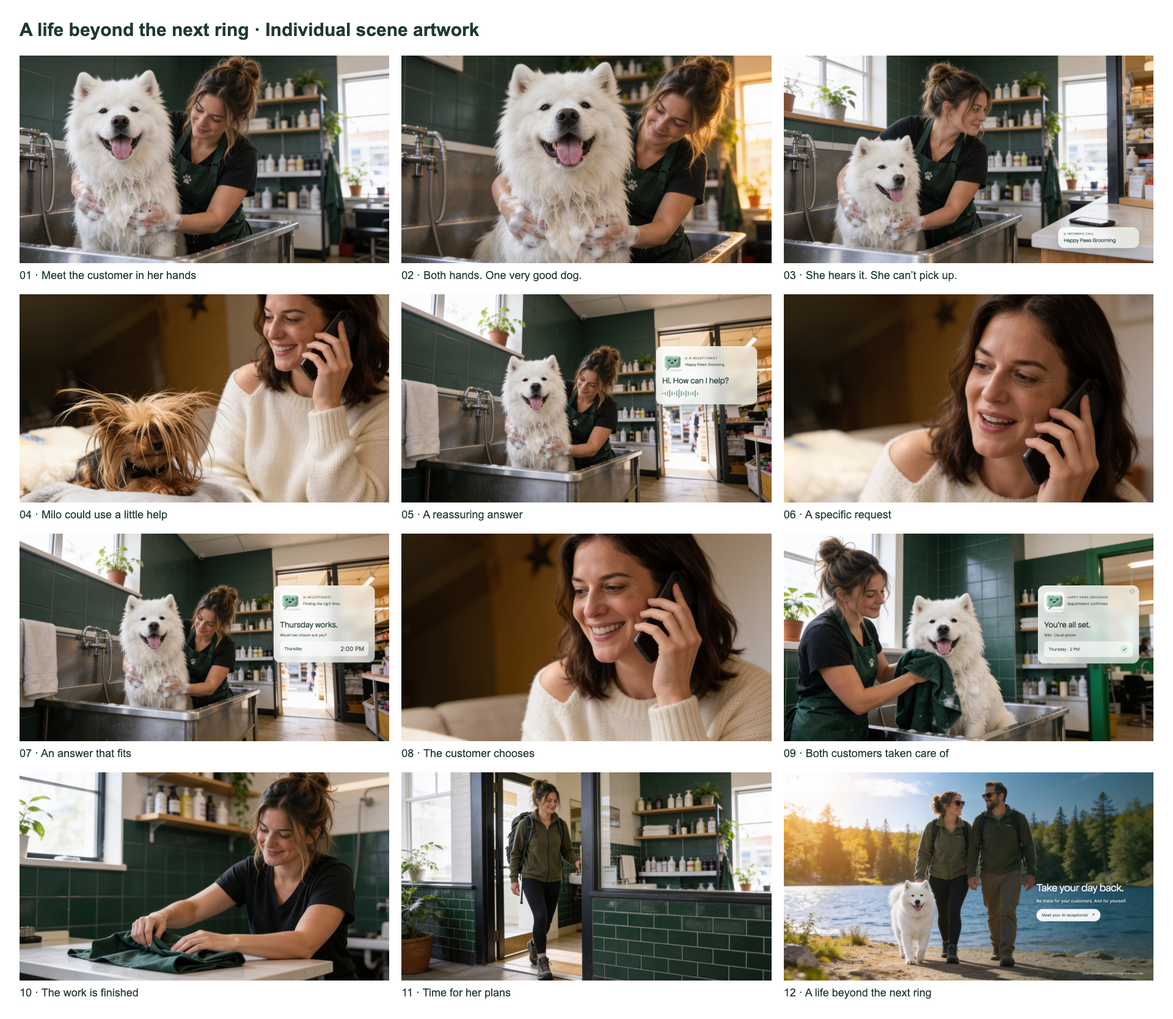
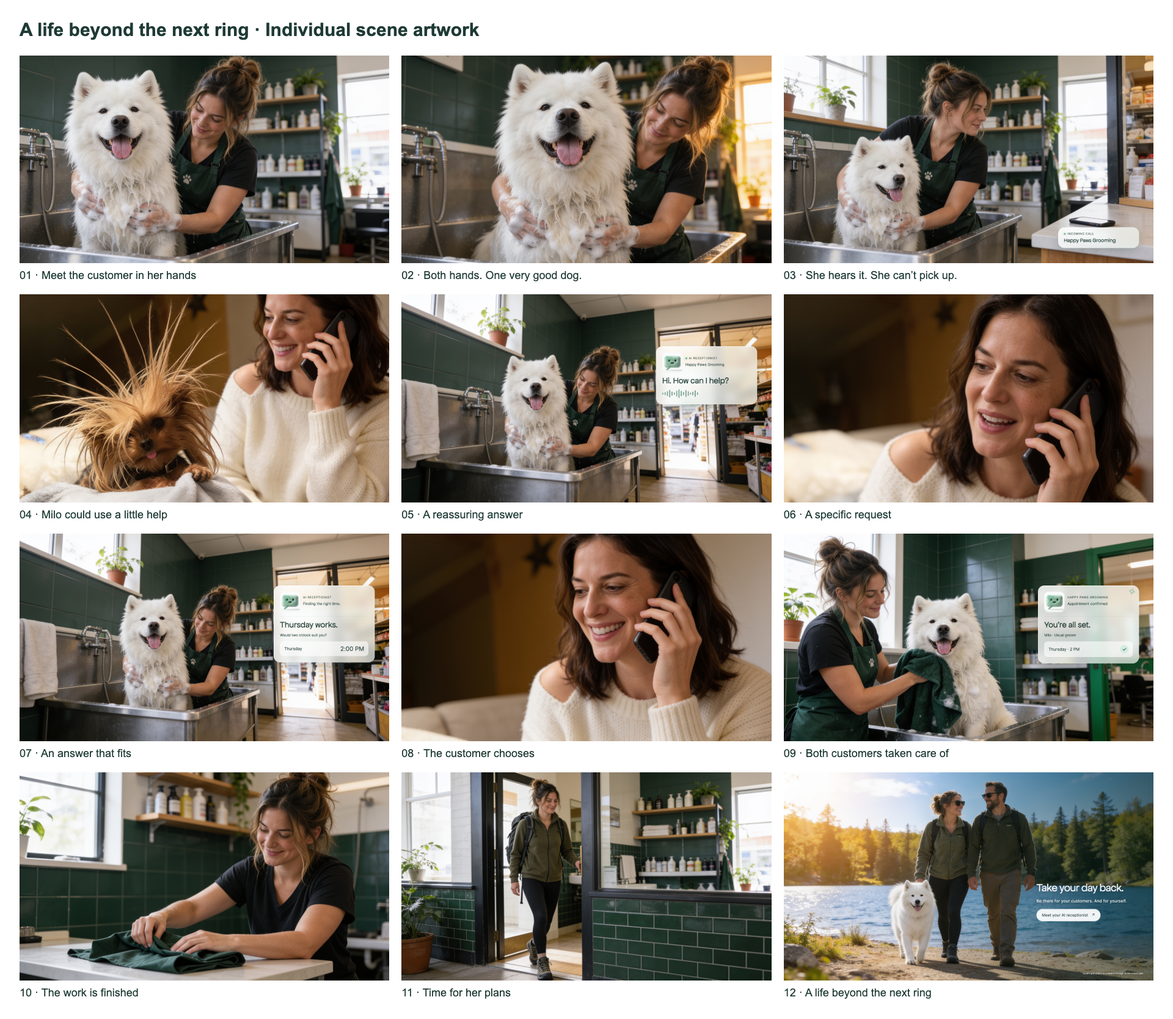
Give Milo wilder hair and a mischievous expression

Changed region(s): [[0.0312, 0.3116, 0.1875, 0.4985]]

diff --git a/docs/design/busy-life/approved-cast-scenes/index.html b/docs/design/busy-life/approved-cast-scenes/index.html
@@ -1,1 +1,1 @@
-<!doctype html><html lang="en"><meta charset="utf-8"><meta name="viewport" content="width=device-width,initial-scale=1"><title>A life beyond the next ring — scenes</title><style>*{box-sizing:border-box}body{margin:0;background:#fff;color:#1e3a34;font:16px system-ui}header{padding:25px 4vw;display:flex;justify-content:space-between;align-items:center;border-bottom:1px solid #dce6e0}h1{font-size:22px;margin:0}header small{display:block;color:#637e73;margin-top:5px}main{max-width:1500px;margin:auto;padding:26px 4vw}#hero{width:100%;aspect-ratio:16/9;object-fit:contain;background:#132b22}nav{display:flex;gap:10px;align-items:center;margin:20px 0}button,a{font:inherit;color:inherit}button{padding:10px 18px;border:1px solid #cddbd3;border-radius:30px;background:white;cursor:pointer}button:hover,button[aria-current=true]{background:#1e3a34;color:white}#count{margin:auto}#thumbs{display:grid;grid-template-columns:repeat(6,1fr);gap:12px;margin:25px 0}#thumbs button{padding:0;overflow:hidden;border-radius:10px;text-align:left}#thumbs img{width:100%;display:block}#thumbs span{display:block;padding:8px;font-size:12px}#notes{display:grid;grid-template-columns:1fr 1fr;gap:35px;line-height:1.6;border-top:1px solid #dce6e0;padding-top:20px}h2{font-size:25px;margin:0 0 8px}h3{font-size:12px;letter-spacing:1px;text-transform:uppercase}#audio{white-space:pre-line}a{font-size:13px}@media(max-width:700px){#thumbs{grid-template-columns:repeat(3,1fr)}#notes{grid-template-columns:1fr}header{align-items:start;gap:12px}}:focus-visible{outline:3px solid #5c9d83;outline-offset:3px}</style><header><div><h1>A life beyond the next ring.</h1><small>Approved character reference · corrected dogs · 12 scenes</small></div><a href="script.md">Full script ↗</a></header><main><img id="hero" alt=""><nav><button id="prev" aria-label="Previous scene">← Previous</button><span id="count" aria-live="polite"></span><button id="next" aria-label="Next scene">Next →</button><a id="download" download>Save image ↓</a></nav><div id="notes"><div><h2 id="title"></h2><p id="action"></p></div><div><h3>Dialogue / audio</h3><p id="audio"></p></div></div><div id="thumbs"></div></main><script>const scenes=[{"number": 1, "title": "Meet the customer in her hands", "time": "00\u201304", "image": "scene-01.png", "action": "Open on the beautiful Samoyed\u2019s whole face: upright ears, a goofy natural grin. The groomer is already washing him with both hands.", "audio": "Water and gentle room tone. The phone begins to ring.", "graphics": "Tiny AI Receptionist brand mark. No large overlay."}, {"number": 2, "title": "Both hands. One very good dog.", "time": "04\u201309", "image": "scene-02.png", "action": "The Samoyed tilts his head as her soapy hands work through his coat. Stay in the present. She has not stopped grooming.", "audio": "NARRATOR: \u201cIt always rings when your hands are full.\u201d", "graphics": "Natural little dog movement, no cartoon sound effects."}, {"number": 3, "title": "She hears it. She can\u2019t pick up.", "time": "09\u201314", "image": "scene-03.png", "action": "She glances at the ringing phone on the dry counter. Both hands stay wet and occupied with the dog; she returns her attention to him.", "audio": "NARRATOR: \u201cAnd there\u2019s someone on the other end who needs you, too.\u201d", "graphics": "Small incoming-call glass pill. No attempted reach for the phone."}, {"number": 4, "title": "Milo could use a little help", "time": "14\u201319", "image": "scene-04.png", "action": "Milo sits beside his customer, with the wild-haired reference guiding his appearance. She calls the groomer.", "audio": "CUSTOMER, affectionately to Milo: \u201cWe\u2019re getting you a haircut.\u201d\nA short ringback.", "graphics": "Let the real-looking dog supply the humor; no gag text."}, {"number": 5, "title": "A reassuring answer", "time": "19\u201325", "image": "scene-05.png", "action": "The open-eyed mascot answers beside the studio scene. The groomer stays quiet and keeps washing; the AI is speaking to the caller.", "audio": "AI: \u201cHi, Happy Paws Grooming. How can I help?\u201d", "graphics": "\u201cAI Receptionist\u201d remains visible on the small glass overlay. Happy Paws Grooming is a fictional demo name."}, {"number": 6, "title": "A specific request", "time": "25\u201332", "image": "scene-06.png", "action": "Cut to the same caller, speaking naturally. Milo stays off-screen rather than changing appearance.", "audio": "CUSTOMER: \u201cCould I book Milo for his usual groom on Thursday? After lunch would be ideal.\u201d", "graphics": "One short caption at a time. Returning-customer example; details established off-screen."}, {"number": 7, "title": "An answer that fits", "time": "32\u201339", "image": "scene-07.png", "action": "The AI presents a suitable available afternoon slot. Keep the owner visible in the background; this happens alongside her work.", "audio": "AI: \u201cThere\u2019s a two o\u2019clock appointment available on Thursday. Would you like that one?\u201d", "graphics": "Highlight \u201cThursday \u00b7 2 PM\u201d; do not make the caller navigate the interface."}, {"number": 8, "title": "The customer chooses", "time": "39\u201344", "image": "scene-08.png", "action": "The same caller smiles as she accepts the offered appointment.", "audio": "CUSTOMER: \u201cTwo is perfect. Thank you.\u201d", "graphics": "The selected time settles gently into place. No narrator over dialogue."}, {"number": 9, "title": "Both customers taken care of", "time": "44\u201351", "image": "scene-09.png", "action": "The owner dries the dog. Beside her, the new appointment resolves into a confirmation. The two threads meet.", "audio": "AI: \u201cYou\u2019re all set. Milo is booked for Thursday at two. See you then.\u201d", "graphics": "Booking card, drawn check, three brief celebration strokes. Quiet confirmation tone."}, {"number": 10, "title": "The work is finished", "time": "51\u201357", "image": "scene-10.png", "action": "The appointment has finished. She puts away her apron, ready to leave. This is the first time her hands are free.", "audio": "NARRATOR: \u201cThe appointment\u2019s booked. One less call to return before you head out.\u201d", "graphics": "A quiet, settled booking confirmation. No new person, business or location."}, {"number": 11, "title": "Time for her plans", "time": "57\u201364", "image": "scene-11.png", "action": "Work finished, the groomer heads outside with her hiking bag.", "audio": "NARRATOR: \u201cBecause you have plans, too.\u201d\nOWNER, voice message: \u201cOn my way.\u201d", "graphics": "Door closes; music opens up. The bag appears here for the first time."}, {"number": 12, "title": "A life beyond the next ring", "time": "64\u201372", "image": "scene-12.png", "action": "The groomer meets her partner by the lake after work. She is present with her partner, phone put away. Let this shot breathe, then add the invitation.", "audio": "NARRATOR: \u201cBe there for your customers. And for yourself. Meet your AI receptionist.\u201d", "graphics": "\u201cTake your day back.\u201d \u2192 \u201cMeet your AI receptionist.\u201d Small connected-pilot note."}];let active=0;const $=id=>document.getElementById(id);function show(i){active=(i+scenes.length)%scenes.length;const s=scenes[active];$('hero').src=s.image;$('hero').alt=s.title;$('title').textContent=s.title;$('count').textContent=String(s.number).padStart(2,'0')+' / 12 · '+s.time+' seconds';$('action').textContent=s.action;$('audio').textContent=s.audio;$('download').href=s.image;document.querySelectorAll('#thumbs button').forEach((b,j)=>b.setAttribute('aria-current',j===active));history.replaceState(null,'','#scene-'+s.number)}scenes.forEach((s,i)=>{const b=document.createElement('button');const img=document.createElement('img');img.src=s.image;img.alt=s.title;const span=document.createElement('span');span.textContent=String(s.number).padStart(2,'0')+' · '+s.title;b.append(img,span);b.onclick=()=>show(i);$('thumbs').append(b)});$('prev').onclick=()=>show(active-1);$('next').onclick=()=>show(active+1);document.addEventListener('keydown',e=>{if(e.key==='ArrowRight')show(active+1);if(e.key==='ArrowLeft')show(active-1)});show(Math.max(0,Number(location.hash.replace('#scene-',''))-1));</script></html>
+<!doctype html><html lang="en"><meta charset="utf-8"><meta name="viewport" content="width=device-width,initial-scale=1"><title>A life beyond the next ring — scenes</title><style>*{box-sizing:border-box}body{margin:0;background:#fff;color:#1e3a34;font:16px system-ui}header{padding:25px 4vw;display:flex;justify-content:space-between;align-items:center;border-bottom:1px solid #dce6e0}h1{font-size:22px;margin:0}header small{display:block;color:#637e73;margin-top:5px}main{max-width:1500px;margin:auto;padding:26px 4vw}#hero{width:100%;aspect-ratio:16/9;object-fit:contain;background:#132b22}nav{display:flex;gap:10px;align-items:center;margin:20px 0}button,a{font:inherit;color:inherit}button{padding:10px 18px;border:1px solid #cddbd3;border-radius:30px;background:white;cursor:pointer}button:hover,button[aria-current=true]{background:#1e3a34;color:white}#count{margin:auto}#thumbs{display:grid;grid-template-columns:repeat(6,1fr);gap:12px;margin:25px 0}#thumbs button{padding:0;overflow:hidden;border-radius:10px;text-align:left}#thumbs img{width:100%;display:block}#thumbs span{display:block;padding:8px;font-size:12px}#notes{display:grid;grid-template-columns:1fr 1fr;gap:35px;line-height:1.6;border-top:1px solid #dce6e0;padding-top:20px}h2{font-size:25px;margin:0 0 8px}h3{font-size:12px;letter-spacing:1px;text-transform:uppercase}#audio{white-space:pre-line}a{font-size:13px}@media(max-width:700px){#thumbs{grid-template-columns:repeat(3,1fr)}#notes{grid-template-columns:1fr}header{align-items:start;gap:12px}}:focus-visible{outline:3px solid #5c9d83;outline-offset:3px}</style><header><div><h1>A life beyond the next ring.</h1><small>Approved character reference · corrected dogs · 12 scenes</small></div><a href="script.md">Full script ↗</a></header><main><img id="hero" alt=""><nav><button id="prev" aria-label="Previous scene">← Previous</button><span id="count" aria-live="polite"></span><button id="next" aria-label="Next scene">Next →</button><a id="download" download>Save image ↓</a></nav><div id="notes"><div><h2 id="title"></h2><p id="action"></p></div><div><h3>Dialogue / audio</h3><p id="audio"></p></div></div><div id="thumbs"></div></main><script>const scenes=[{"number": 1, "title": "Meet the customer in her hands", "time": "00\u201304", "image": "scene-01.png", "action": "Open on the beautiful Samoyed\u2019s whole face: upright ears, a goofy natural grin. The groomer is already washing him with both hands.", "audio": "Water and gentle room tone. The phone begins to ring.", "graphics": "Tiny AI Receptionist brand mark. No large overlay."}, {"number": 2, "title": "Both hands. One very good dog.", "time": "04\u201309", "image": "scene-02.png", "action": "The Samoyed tilts his head as her soapy hands work through his coat. Stay in the present. She has not stopped grooming.", "audio": "NARRATOR: \u201cIt always rings when your hands are full.\u201d", "graphics": "Natural little dog movement, no cartoon sound effects."}, {"number": 3, "title": "She hears it. She can\u2019t pick up.", "time": "09\u201314", "image": "scene-03.png", "action": "She glances at the ringing phone on the dry counter. Both hands stay wet and occupied with the dog; she returns her attention to him.", "audio": "NARRATOR: \u201cAnd there\u2019s someone on the other end who needs you, too.\u201d", "graphics": "Small incoming-call glass pill. No attempted reach for the phone."}, {"number": 4, "title": "Milo could use a little help", "time": "14\u201319", "image": "scene-04.png", "action": "Milo cocks his head, sticks out his tongue and tugs at the blanket, with wild flyaway hair. His customer calls the groomer.", "audio": "CUSTOMER, affectionately to Milo: \u201cWe\u2019re getting you a haircut.\u201d\nA short ringback.", "graphics": "Let the real-looking dog supply the humor; no gag text."}, {"number": 5, "title": "A reassuring answer", "time": "19\u201325", "image": "scene-05.png", "action": "The open-eyed mascot answers beside the studio scene. The groomer stays quiet and keeps washing; the AI is speaking to the caller.", "audio": "AI: \u201cHi, Happy Paws Grooming. How can I help?\u201d", "graphics": "\u201cAI Receptionist\u201d remains visible on the small glass overlay. Happy Paws Grooming is a fictional demo name."}, {"number": 6, "title": "A specific request", "time": "25\u201332", "image": "scene-06.png", "action": "Cut to the same caller, speaking naturally. Milo stays off-screen rather than changing appearance.", "audio": "CUSTOMER: \u201cCould I book Milo for his usual groom on Thursday? After lunch would be ideal.\u201d", "graphics": "One short caption at a time. Returning-customer example; details established off-screen."}, {"number": 7, "title": "An answer that fits", "time": "32\u201339", "image": "scene-07.png", "action": "The AI presents a suitable available afternoon slot. Keep the owner visible in the background; this happens alongside her work.", "audio": "AI: \u201cThere\u2019s a two o\u2019clock appointment available on Thursday. Would you like that one?\u201d", "graphics": "Highlight \u201cThursday \u00b7 2 PM\u201d; do not make the caller navigate the interface."}, {"number": 8, "title": "The customer chooses", "time": "39\u201344", "image": "scene-08.png", "action": "The same caller smiles as she accepts the offered appointment.", "audio": "CUSTOMER: \u201cTwo is perfect. Thank you.\u201d", "graphics": "The selected time settles gently into place. No narrator over dialogue."}, {"number": 9, "title": "Both customers taken care of", "time": "44\u201351", "image": "scene-09.png", "action": "The owner dries the dog. Beside her, the new appointment resolves into a confirmation. The two threads meet.", "audio": "AI: \u201cYou\u2019re all set. Milo is booked for Thursday at two. See you then.\u201d", "graphics": "Booking card, drawn check, three brief celebration strokes. Quiet confirmation tone."}, {"number": 10, "title": "The work is finished", "time": "51\u201357", "image": "scene-10.png", "action": "The appointment has finished. She puts away her apron, ready to leave. This is the first time her hands are free.", "audio": "NARRATOR: \u201cThe appointment\u2019s booked. One less call to return before you head out.\u201d", "graphics": "A quiet, settled booking confirmation. No new person, business or location."}, {"number": 11, "title": "Time for her plans", "time": "57\u201364", "image": "scene-11.png", "action": "Work finished, the groomer heads outside with her hiking bag.", "audio": "NARRATOR: \u201cBecause you have plans, too.\u201d\nOWNER, voice message: \u201cOn my way.\u201d", "graphics": "Door closes; music opens up. The bag appears here for the first time."}, {"number": 12, "title": "A life beyond the next ring", "time": "64\u201372", "image": "scene-12.png", "action": "The groomer meets her partner by the lake after work. She is present with her partner, phone put away. Let this shot breathe, then add the invitation.", "audio": "NARRATOR: \u201cBe there for your customers. And for yourself. Meet your AI receptionist.\u201d", "graphics": "\u201cTake your day back.\u201d \u2192 \u201cMeet your AI receptionist.\u201d Small connected-pilot note."}];let active=0;const $=id=>document.getElementById(id);function show(i){active=(i+scenes.length)%scenes.length;const s=scenes[active];$('hero').src=s.image;$('hero').alt=s.title;$('title').textContent=s.title;$('count').textContent=String(s.number).padStart(2,'0')+' / 12 · '+s.time+' seconds';$('action').textContent=s.action;$('audio').textContent=s.audio;$('download').href=s.image;document.querySelectorAll('#thumbs button').forEach((b,j)=>b.setAttribute('aria-current',j===active));history.replaceState(null,'','#scene-'+s.number)}scenes.forEach((s,i)=>{const b=document.createElement('button');const img=document.createElement('img');img.src=s.image;img.alt=s.title;const span=document.createElement('span');span.textContent=String(s.number).padStart(2,'0')+' · '+s.title;b.append(img,span);b.onclick=()=>show(i);$('thumbs').append(b)});$('prev').onclick=()=>show(active-1);$('next').onclick=()=>show(active+1);document.addEventListener('keydown',e=>{if(e.key==='ArrowRight')show(active+1);if(e.key==='ArrowLeft')show(active-1)});show(Math.max(0,Number(location.hash.replace('#scene-',''))-1));</script></html>

diff --git a/docs/design/busy-life/approved-cast-scenes/compositions.html b/docs/design/busy-life/approved-cast-scenes/compositions.html
@@ -1,1 +1,1 @@
-<!doctype html><html lang="en"><meta charset="utf-8"><title>AI Receptionist — finished scenes</title><style>@font-face{font-family:Apfel;src:url(../../../../public/fonts/apfel-grotezk/ApfelGrotezk-Regular.woff2)}@font-face{font-family:Runde;src:url(../../../../public/fonts/open-runde/OpenRunde-Regular.woff2)}*{box-sizing:border-box}body{margin:0;background:#fff;color:#1e3a34;font-family:Runde,Arial,sans-serif}.film{width:2560px;height:1440px;position:relative;overflow:hidden;background:#10291f}.photo{position:absolute;inset:0;width:100%;height:100%;object-fit:cover}.brand{position:absolute;top:70px;left:82px;color:white;font-size:24px;letter-spacing:2px;text-shadow:0 2px 10px #0009}.glass{position:absolute;right:100px;top:360px;width:700px;padding:42px;border-radius:44px;background:linear-gradient(140deg,#ffffffdb,#eff8f3ad);backdrop-filter:blur(28px) saturate(1.15);border:2px solid #ffffffc7;box-shadow:inset 0 1px 1px #fff,0 28px 70px #0c251c35;color:#1e3a34}.eyebrow{font-size:20px;letter-spacing:2px;text-transform:uppercase}.live{display:inline-block;width:12px;height:12px;border-radius:50%;background:#6caf93;margin-right:12px;box-shadow:0 0 0 8px #80bca526}.glass h2{font-family:Apfel;font-size:58px;line-height:1.08;font-weight:400;margin:22px 0}.glass p{font-size:25px;line-height:1.45;margin:14px 0}.mascot{width:140px;height:140px;object-fit:contain;mix-blend-mode:multiply;border-radius:30px}.topline{display:flex;align-items:center;gap:20px}.wave{display:flex;align-items:center;gap:9px;height:60px;margin-top:28px}.wave i{display:block;width:7px;border-radius:8px;background:#729e8d}.divider{height:1px;background:#1e3a3422;margin:28px 0}.time{background:#fff9;border:1px solid white;border-radius:24px;padding:24px 28px;margin-top:26px;display:flex;align-items:center;justify-content:space-between;font-size:28px}.time b{font-size:42px;font-weight:400}.check{width:58px;height:58px;background:#d3ece1;border-radius:50%;display:grid;place-items:center;font-size:36px}.spark{position:absolute;right:23px;top:3px;font-size:58px;transform:rotate(14deg);color:#8dbba6}.endshade{position:absolute;inset:0;background:linear-gradient(270deg,#09201799,transparent 65%)}.end{position:absolute;left:1750px;top:750px;width:720px;color:white}.end h2{text-shadow:0 2px 20px #0005}.end p{text-shadow:0 2px 15px #0008}.end h2{font-family:Apfel;font-weight:400;letter-spacing:-2px;font-size:76px;margin:0 0 25px}.end p{font-size:29px;margin:0 0 38px}.cta{display:inline-block;padding:25px 36px;background:#ffffffed;border:1px solid white;border-radius:50px;color:#1e3a34;font-size:27px}.pilot{position:absolute;bottom:40px;right:65px;color:#fff;font-size:16px;text-shadow:0 1px 5px #000}.mini{top:auto;bottom:105px;width:560px;padding:30px 38px}.mini h2{font-size:37px;margin:15px 0 0}.export .film{display:none}.export .film.active{display:block}</style><body><section class="film" id="scene-01"><img class="photo" src="raw/scene-01.png" alt="Meet the customer in her hands"></section><section class="film" id="scene-02"><img class="photo" src="raw/scene-02.png" alt="Both hands. One very good dog."></section><section class="film" id="scene-03"><img class="photo" src="raw/scene-33.png" alt="She hears it. She can’t pick up."><div class="glass mini"><div class="eyebrow"><span class="live"></span>Incoming call</div><h2>Happy Paws Grooming</h2></div></section><section class="film" id="scene-04"><img class="photo" src="raw/scene-14.png" alt="Milo could use a little help"></section><section class="film" id="scene-05"><img class="photo" src="raw/scene-35.png" alt="A reassuring answer"><div class="glass"><div class="topline"><img class="mascot" src="raw/scene-13.png" alt="Open-eyed fuzzy AI mascot"><div><div class="eyebrow"><span class="live"></span>AI Receptionist</div><p>Happy Paws Grooming</p></div></div><h2>Hi. How can I help?</h2><div class="wave"><i style="height:12px"></i><i style="height:20px"></i><i style="height:34px"></i><i style="height:52px"></i><i style="height:28px"></i><i style="height:16px"></i><i style="height:40px"></i><i style="height:60px"></i><i style="height:37px"></i><i style="height:22px"></i><i style="height:47px"></i><i style="height:32px"></i><i style="height:14px"></i><i style="height:25px"></i><i style="height:45px"></i><i style="height:18px"></i></div></div></section><section class="film" id="scene-06"><img class="photo" src="raw/scene-06.png" alt="A specific request"></section><section class="film" id="scene-07"><img class="photo" src="raw/scene-35.png" alt="An answer that fits"><div class="glass"><div class="topline"><img class="mascot" src="raw/scene-13.png" alt="Open-eyed fuzzy AI mascot"><div><div class="eyebrow">AI Receptionist</div><p>Finding the right time.</p></div></div><div class="divider"></div><h2>Thursday works.</h2><p>Would two o’clock suit you?</p><div class="time"><span>Thursday</span><b>2:00 PM</b></div></div></section><section class="film" id="scene-08"><img class="photo" src="raw/scene-08.png" alt="The customer chooses"></section><section class="film" id="scene-09"><img class="photo" src="raw/scene-39.png" alt="Both customers taken care of"><div class="glass"><div class="topline"><img class="mascot" src="raw/scene-13.png" alt="Open-eyed fuzzy AI mascot"><div><div class="eyebrow">Happy Paws Grooming</div><p>Appointment confirmed</p></div></div><div class="divider"></div><h2>You’re all set.</h2><p>Milo · Usual groom</p><div class="time"><span>Thursday · 2 PM</span><span class="check">✓</span></div><span class="spark">✧</span></div></section><section class="film" id="scene-10"><img class="photo" src="raw/scene-10.png" alt="The work is finished"></section><section class="film" id="scene-11"><img class="photo" src="raw/scene-41.png" alt="Time for her plans"></section><section class="film" id="scene-12"><img class="photo" src="raw/scene-23.png" alt="A life beyond the next ring"><div class="endshade"></div><div class="end"><h2>Take your day back.</h2><p>Be there for your customers. And for yourself.</p><span class="cta">Meet your AI receptionist &nbsp; ↗</span></div><div class="pilot">Incoming AI booking available through a connected pilot.</div></section></body></html>
+<!doctype html><html lang="en"><meta charset="utf-8"><title>AI Receptionist — finished scenes</title><style>@font-face{font-family:Apfel;src:url(../../../../public/fonts/apfel-grotezk/ApfelGrotezk-Regular.woff2)}@font-face{font-family:Runde;src:url(../../../../public/fonts/open-runde/OpenRunde-Regular.woff2)}*{box-sizing:border-box}body{margin:0;background:#fff;color:#1e3a34;font-family:Runde,Arial,sans-serif}.film{width:2560px;height:1440px;position:relative;overflow:hidden;background:#10291f}.photo{position:absolute;inset:0;width:100%;height:100%;object-fit:cover}.brand{position:absolute;top:70px;left:82px;color:white;font-size:24px;letter-spacing:2px;text-shadow:0 2px 10px #0009}.glass{position:absolute;right:100px;top:360px;width:700px;padding:42px;border-radius:44px;background:linear-gradient(140deg,#ffffffdb,#eff8f3ad);backdrop-filter:blur(28px) saturate(1.15);border:2px solid #ffffffc7;box-shadow:inset 0 1px 1px #fff,0 28px 70px #0c251c35;color:#1e3a34}.eyebrow{font-size:20px;letter-spacing:2px;text-transform:uppercase}.live{display:inline-block;width:12px;height:12px;border-radius:50%;background:#6caf93;margin-right:12px;box-shadow:0 0 0 8px #80bca526}.glass h2{font-family:Apfel;font-size:58px;line-height:1.08;font-weight:400;margin:22px 0}.glass p{font-size:25px;line-height:1.45;margin:14px 0}.mascot{width:140px;height:140px;object-fit:contain;mix-blend-mode:multiply;border-radius:30px}.topline{display:flex;align-items:center;gap:20px}.wave{display:flex;align-items:center;gap:9px;height:60px;margin-top:28px}.wave i{display:block;width:7px;border-radius:8px;background:#729e8d}.divider{height:1px;background:#1e3a3422;margin:28px 0}.time{background:#fff9;border:1px solid white;border-radius:24px;padding:24px 28px;margin-top:26px;display:flex;align-items:center;justify-content:space-between;font-size:28px}.time b{font-size:42px;font-weight:400}.check{width:58px;height:58px;background:#d3ece1;border-radius:50%;display:grid;place-items:center;font-size:36px}.spark{position:absolute;right:23px;top:3px;font-size:58px;transform:rotate(14deg);color:#8dbba6}.endshade{position:absolute;inset:0;background:linear-gradient(270deg,#09201799,transparent 65%)}.end{position:absolute;left:1750px;top:750px;width:720px;color:white}.end h2{text-shadow:0 2px 20px #0005}.end p{text-shadow:0 2px 15px #0008}.end h2{font-family:Apfel;font-weight:400;letter-spacing:-2px;font-size:76px;margin:0 0 25px}.end p{font-size:29px;margin:0 0 38px}.cta{display:inline-block;padding:25px 36px;background:#ffffffed;border:1px solid white;border-radius:50px;color:#1e3a34;font-size:27px}.pilot{position:absolute;bottom:40px;right:65px;color:#fff;font-size:16px;text-shadow:0 1px 5px #000}.mini{top:auto;bottom:105px;width:560px;padding:30px 38px}.mini h2{font-size:37px;margin:15px 0 0}.export .film{display:none}.export .film.active{display:block}</style><body><section class="film" id="scene-01"><img class="photo" src="raw/scene-01.png" alt="Meet the customer in her hands"></section><section class="film" id="scene-02"><img class="photo" src="raw/scene-02.png" alt="Both hands. One very good dog."></section><section class="film" id="scene-03"><img class="photo" src="raw/scene-33.png" alt="She hears it. She can’t pick up."><div class="glass mini"><div class="eyebrow"><span class="live"></span>Incoming call</div><h2>Happy Paws Grooming</h2></div></section><section class="film" id="scene-04"><img class="photo" src="raw/scene-44.png" alt="Milo could use a little help"></section><section class="film" id="scene-05"><img class="photo" src="raw/scene-35.png" alt="A reassuring answer"><div class="glass"><div class="topline"><img class="mascot" src="raw/scene-13.png" alt="Open-eyed fuzzy AI mascot"><div><div class="eyebrow"><span class="live"></span>AI Receptionist</div><p>Happy Paws Grooming</p></div></div><h2>Hi. How can I help?</h2><div class="wave"><i style="height:12px"></i><i style="height:20px"></i><i style="height:34px"></i><i style="height:52px"></i><i style="height:28px"></i><i style="height:16px"></i><i style="height:40px"></i><i style="height:60px"></i><i style="height:37px"></i><i style="height:22px"></i><i style="height:47px"></i><i style="height:32px"></i><i style="height:14px"></i><i style="height:25px"></i><i style="height:45px"></i><i style="height:18px"></i></div></div></section><section class="film" id="scene-06"><img class="photo" src="raw/scene-06.png" alt="A specific request"></section><section class="film" id="scene-07"><img class="photo" src="raw/scene-35.png" alt="An answer that fits"><div class="glass"><div class="topline"><img class="mascot" src="raw/scene-13.png" alt="Open-eyed fuzzy AI mascot"><div><div class="eyebrow">AI Receptionist</div><p>Finding the right time.</p></div></div><div class="divider"></div><h2>Thursday works.</h2><p>Would two o’clock suit you?</p><div class="time"><span>Thursday</span><b>2:00 PM</b></div></div></section><section class="film" id="scene-08"><img class="photo" src="raw/scene-08.png" alt="The customer chooses"></section><section class="film" id="scene-09"><img class="photo" src="raw/scene-39.png" alt="Both customers taken care of"><div class="glass"><div class="topline"><img class="mascot" src="raw/scene-13.png" alt="Open-eyed fuzzy AI mascot"><div><div class="eyebrow">Happy Paws Grooming</div><p>Appointment confirmed</p></div></div><div class="divider"></div><h2>You’re all set.</h2><p>Milo · Usual groom</p><div class="time"><span>Thursday · 2 PM</span><span class="check">✓</span></div><span class="spark">✧</span></div></section><section class="film" id="scene-10"><img class="photo" src="raw/scene-10.png" alt="The work is finished"></section><section class="film" id="scene-11"><img class="photo" src="raw/scene-41.png" alt="Time for her plans"></section><section class="film" id="scene-12"><img class="photo" src="raw/scene-23.png" alt="A life beyond the next ring"><div class="endshade"></div><div class="end"><h2>Take your day back.</h2><p>Be there for your customers. And for yourself.</p><span class="cta">Meet your AI receptionist &nbsp; ↗</span></div><div class="pilot">Incoming AI booking available through a connected pilot.</div></section></body></html>

diff --git a/docs/design/busy-life/approved-cast-scenes/build-gallery.py b/docs/design/busy-life/approved-cast-scenes/build-gallery.py
@@ -2,7 +2,7 @@ from pathlib import Path
 import json,html
 p=Path(__file__).parent
 scenes=json.loads((p/'scenes.json').read_text())
-scenes[3]['action']='Milo sits beside his customer, with the wild-haired reference guiding his appearance. She calls the groomer.'
+scenes[3]['action']='Milo cocks his head, sticks out his tongue and tugs at the blanket, with wild flyaway hair. His customer calls the groomer.'
 scenes[5]['action']='Cut to the same caller, speaking naturally. Milo stays off-screen rather than changing appearance.'
 scenes[7]['action']='The same caller smiles as she accepts the offered appointment.'
 scenes[10]['action']='Work finished, the groomer heads outside with her hiking bag.'
@@ -13,7 +13,7 @@ mascot='<img class="mascot" src="raw/scene-13.png" alt="Open-eyed fuzzy AI masco
 overlays={3:'<div class="glass mini"><div class="eyebrow"><span class="live"></span>Incoming call</div><h2>Happy Paws Grooming</h2></div>',5:f'<div class="glass"><div class="topline">{mascot}<div><div class="eyebrow"><span class="live"></span>AI Receptionist</div><p>Happy Paws Grooming</p></div></div><h2>Hi. How can I help?</h2>{wave}</div>',7:f'<div class="glass"><div class="topline">{mascot}<div><div class="eyebrow">AI Receptionist</div><p>Finding the right time.</p></div></div><div class="divider"></div><h2>Thursday works.</h2><p>Would two o’clock suit you?</p><div class="time"><span>Thursday</span><b>2:00 PM</b></div></div>',9:f'<div class="glass"><div class="topline">{mascot}<div><div class="eyebrow">Happy Paws Grooming</div><p>Appointment confirmed</p></div></div><div class="divider"></div><h2>You’re all set.</h2><p>Milo · Usual groom</p><div class="time"><span>Thursday · 2 PM</span><span class="check">✓</span></div><span class="spark">✧</span></div>',12:'<div class="endshade"></div><div class="end"><h2>Take your day back.</h2><p>Be there for your customers. And for yourself.</p><span class="cta">Meet your AI receptionist &nbsp; ↗</span></div><div class="pilot">Incoming AI booking available through a connected pilot.</div>'}
 films=[]
 for s in scenes:
- n=s['number'];src={3:33,4:14,5:35,7:35,9:39,11:41,12:23}.get(n,n)
+ n=s['number'];src={3:33,4:44,5:35,7:35,9:39,11:41,12:23}.get(n,n)
  style=''
  if False:style=' style="width:135%;max-width:none;object-fit:cover;object-position:left center"'
  films.append(f'<section class="film" id="scene-{n:02}"><img class="photo"{style} src="raw/scene-{src:02}.png" alt="{html.escape(s["title"])}">'+overlays.get(n,'')+'</section>')

diff --git a/NOW.md b/NOW.md
@@ -1,5 +1,12 @@
 # NOW
 
+## Current handoff — mischievous Milo (10 September 2026)
+
+- Bubs approved the restored cast and requested wilder reference-like hair and a bratty little dog in scene 4.
+- Edited only the caller image through Higgsfield Seedream 4.5: irregular upright flyaways, head tilt, tongue out and paw tugging blanket; preserved caller and room.
+- Updated scene 4, overview and gallery; retained earlier raw artwork. Next: review this dog expression before animation.
+- Commit locally; earlier public-push approval block remains.
+
 ## Current handoff — industries image examples (10 September 2026)
 
 - Created three visual section mockups in docs/design/industries: white, mint and deep-forest horizontal galleries with people working in salons, pet grooming and photography.

diff --git a/docs/design/busy-life/approved-cast-scenes/README.md b/docs/design/busy-life/approved-cast-scenes/README.md
@@ -7,3 +7,5 @@ Twelve 2560×1440 stills, full script and a one-at-a-time viewer. Higgsfield See
 Raw filenames 03,05,09,11 contain rejected collage artifacts; replaced by 33,35,39,41. Closing 12 had scale problems; 22 fixed scale and 23 fixed footwear. Scene 4 uses 14; scene 7 continues scene 5's photographic moment. Other superseded raw outputs retained for traceability. Prompts and job IDs are in generations.json.
 
 Checked every finished scene in the overview, image loading and gallery next/previous navigation. Earlier public-push approval block remains; save locally.
+
+Latest scene 4 revision uses raw/scene-44.png: Bubs requested more extreme flyaway hair and mischievous expression. Job and prompt in milo-mischief.json. Raw 14 is superseded.

diff --git a/docs/design/busy-life/approved-cast-scenes/script.md b/docs/design/busy-life/approved-cast-scenes/script.md
@@ -22,7 +22,7 @@ NARRATOR: “And there’s someone on the other end who needs you, too.”
 
 ## 04. Milo could use a little help — 14–19
 
-Milo sits beside his customer, with the wild-haired reference guiding his appearance. She calls the groomer.
+Milo cocks his head, sticks out his tongue and tugs at the blanket, with wild flyaway hair. His customer calls the groomer.
 
 CUSTOMER, affectionately to Milo: “We’re getting you a haircut.”
 A short ringback.
